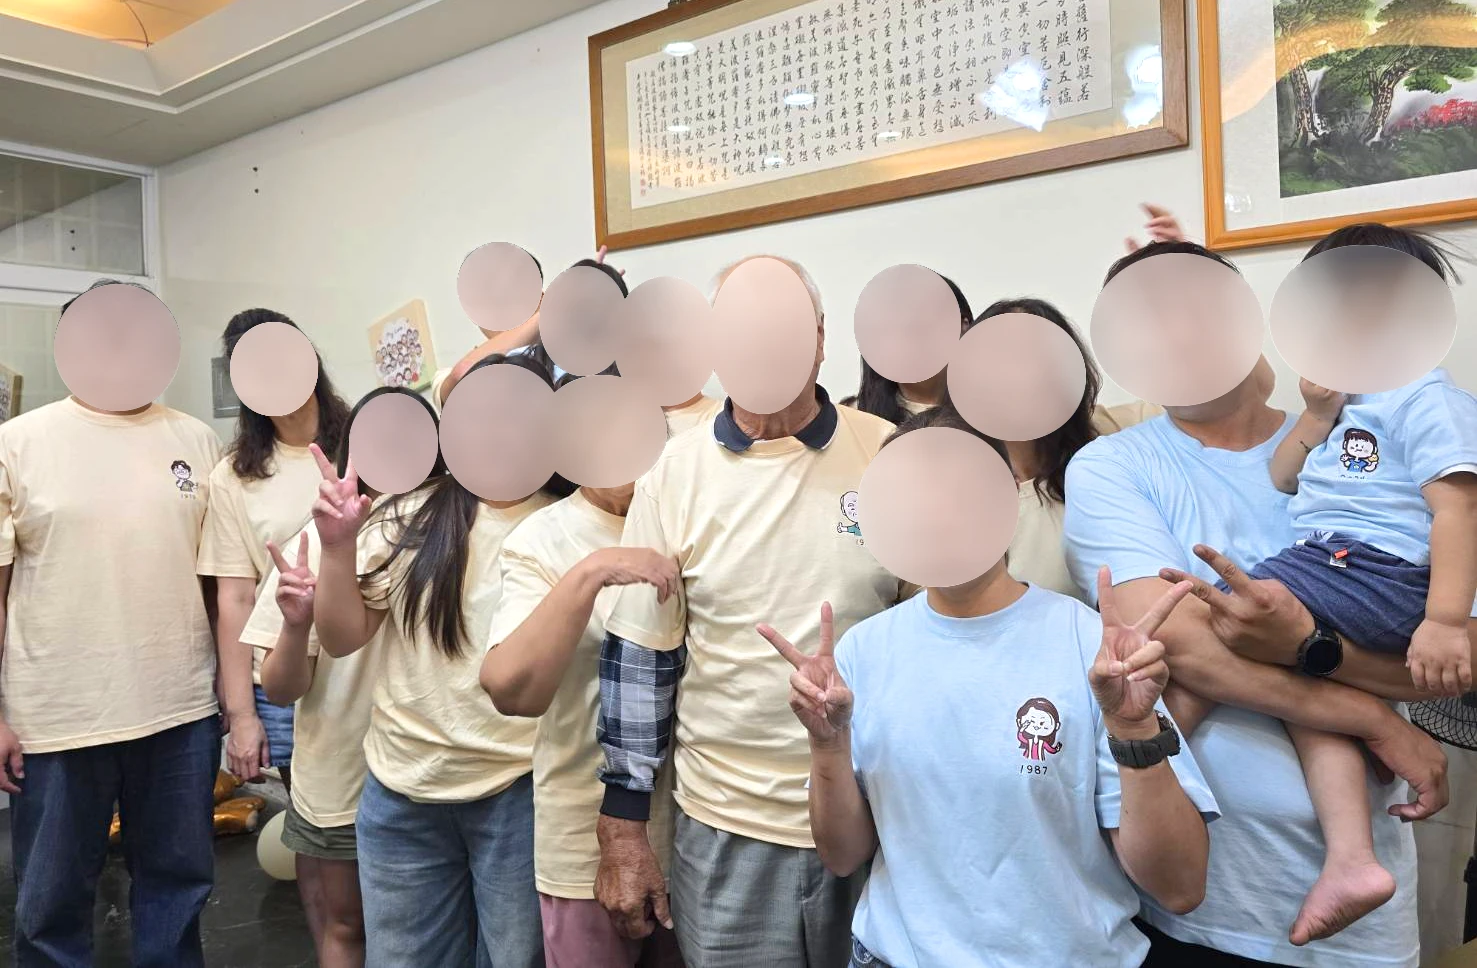
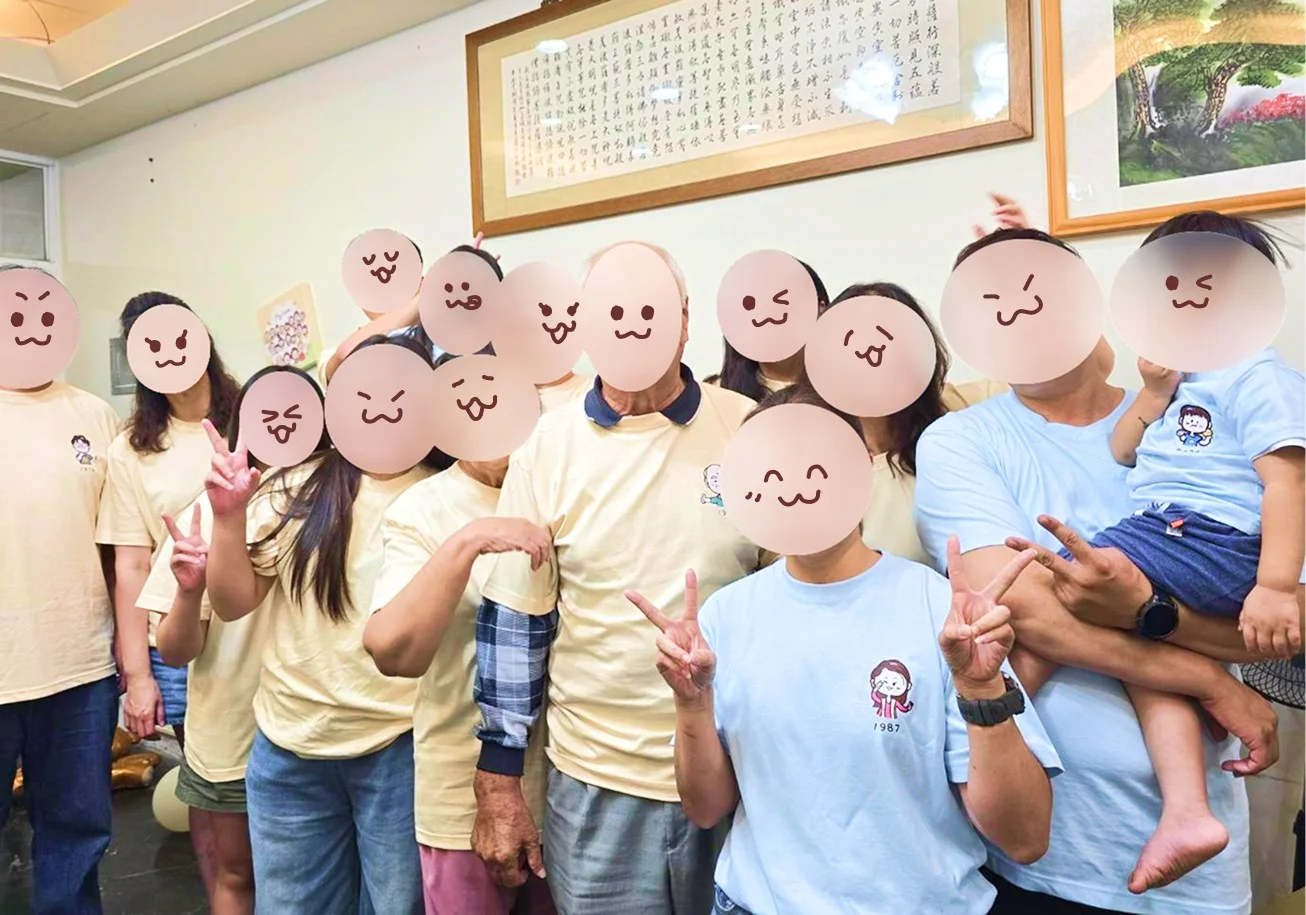
顧客好評：大家族合照換成表情貼圖遮臉版本

diff --git a/reviews.html b/reviews.html
@@ -90,7 +90,7 @@
             <img src="assets/reviews/photo-tees.webp" alt="客製紀念 T 恤實拍：正面是每位家人的 Q 版頭像與出生年份，背面印上 Sweet Family 與 Lovely Family 全家福合畫" width="1448" height="1086" loading="lazy" />
           </figure>
           <figure class="review-photo reveal" style="--d:1">
-            <img src="assets/reviews/photo-family.webp" alt="大家族穿上客製紀念 T 恤的合照（臉部已模糊處理）" width="1477" height="968" loading="lazy" />
+            <img src="assets/reviews/photo-family.webp?v=2" alt="大家族穿上客製紀念 T 恤的合照（臉部以表情貼圖遮蓋）" width="1306" height="915" loading="lazy" />
           </figure>
         </div>
       </div>
